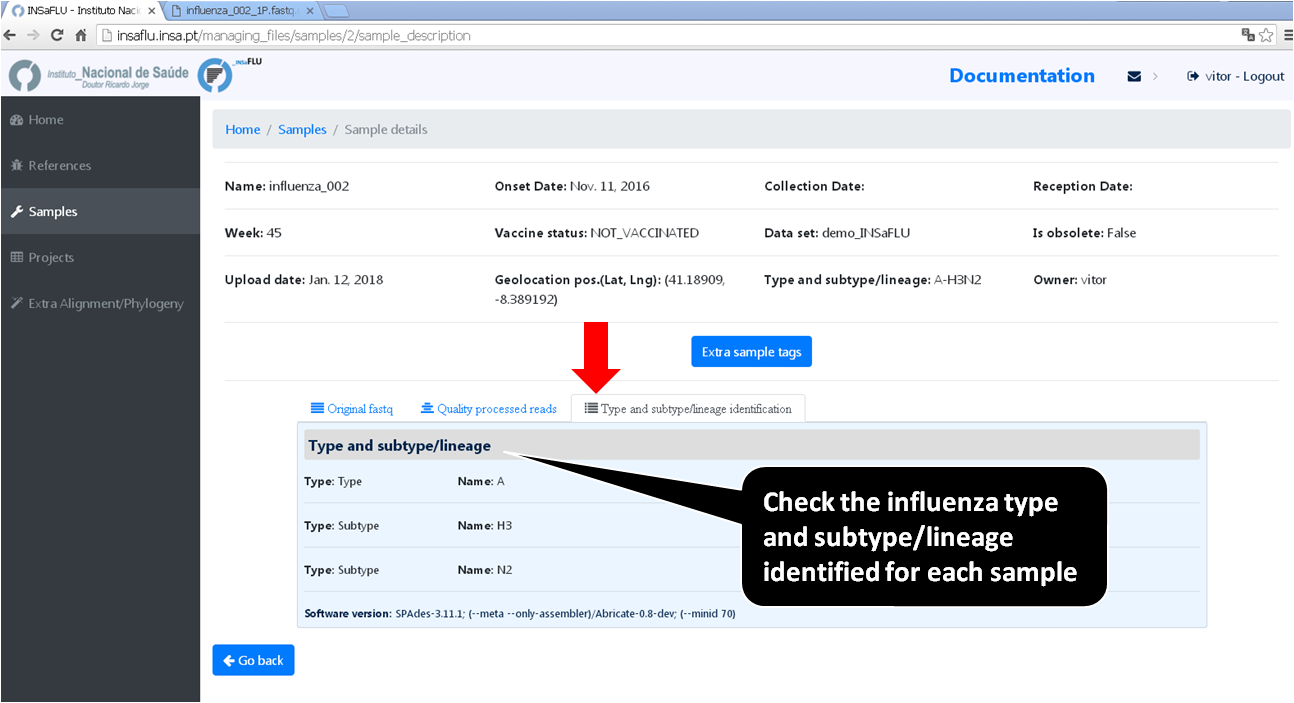
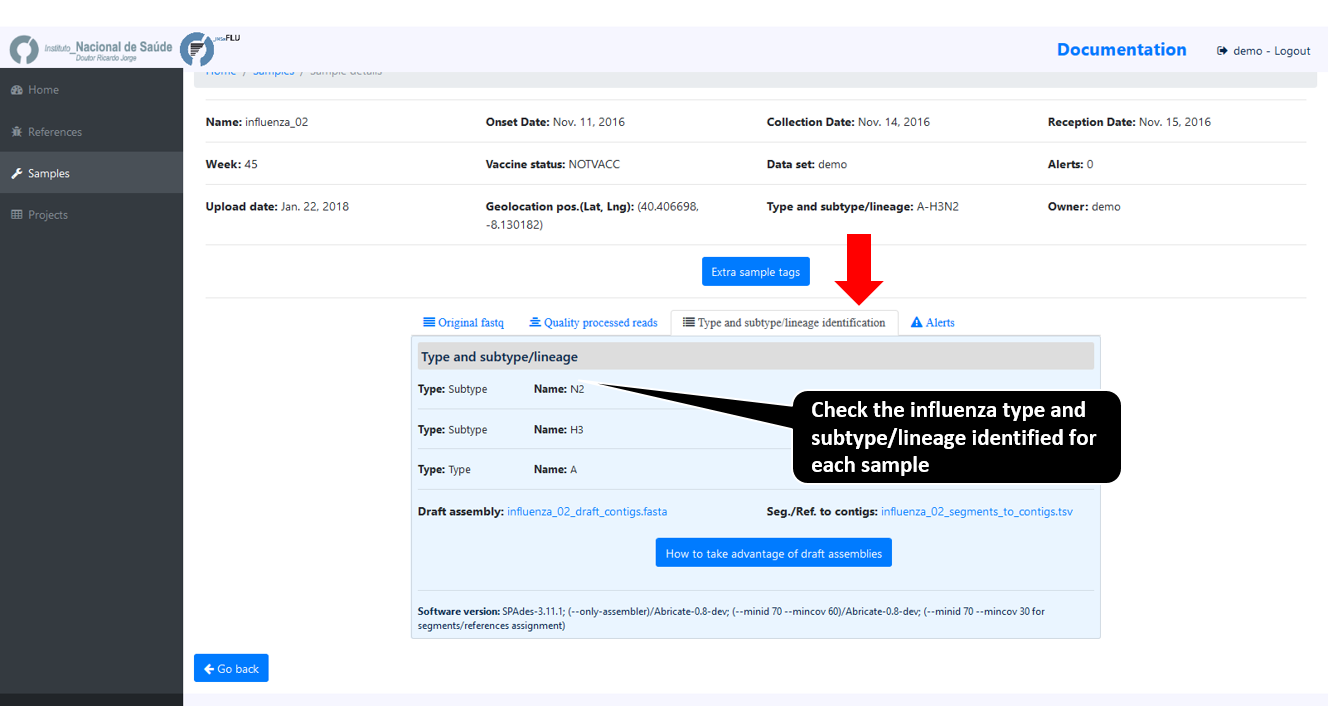
[Add] update tutorial images - typing module

diff --git a/docs/data_analysis.rst b/docs/data_analysis.rst
@@ -56,7 +56,7 @@ i) "influenza_typing", which drives the discrimination of the influenza types A 
 
 ii) "influenza_assign_segments2contigs", which allows the automatic assignment of the assembled contigs to both the corresponding viral segments and to a related reference influenza virus. 
 
-The generated outputs (i.e., draft assemblies, the identified type and subtype/lineage and a table linking contigs to segments/refernces) are automatically provided upon reads upload (i.e., no user intervention is needed). INSaFLU flags samples as "putative mixed infections" if more than one type, HA or NA subtype or lineage is detected. In addition, specific alerts are generated if an incomplete type/subtype is assigned.
+The generated outputs (i.e., draft assemblies, the identified type and subtype/lineage and a table linking contigs to segments/references) are automatically provided upon reads upload (i.e., no user intervention is needed). INSaFLU flags samples as "putative mixed infections" if more than one type, HA or NA subtype or lineage is detected. In addition, specific alerts are generated if an incomplete type/subtype is assigned.
 
 *Software version/settings*
 
@@ -79,7 +79,7 @@ The generated outputs (i.e., draft assemblies, the identified type and subtype/l
 		
 		--mincov: minimum DNA % coverage (--mincov 60)
 		
-		
+				
 		# For segments/references assignment: 
 		
 		--db influeza_assign_segments2contigs: this database includes segment sequence markers of several seasonal human influenza [including: i) post-pandemic (2009) vaccine/reference influenza A(H1N1)pdm2009, A(H3N2) and B viruses; ii) representative viruses of specific genetic groups/lineages/clades, as defined by International Health Authorities for each season)], as well as of avian influenza from several HA/NA subtypes (i.e., H1N1, H2N2, H5N1, H7N9, etc)
@@ -89,8 +89,11 @@ The generated outputs (i.e., draft assemblies, the identified type and subtype/l
 		--mincov: minimum DNA % coverage (--mincov 30)
 
 				Important note: Since the "influeza_assign_segments2contigs" database is naturally not as exhaustive as other databases (such as, NCBI, Fludb or EpiFLU/GISAID), users may need to run the draft assemblies in these databases (or associated tools, such as BLAST) for some purposes (e.g., to detect/confirm reassortments or to infer the closest reference sequence of each segment).
+
+Latest lists of genetic markers can be downloaded here: :download:`INSaFLU_current_genetic_markers_14_05_2018.xlsx <_static/INSaFLU_current_genetic_markers_14_05_2018.xlsx>`
+				
 		
-		
+
 Variant detection and consensus generation
 ------------------------------------------
 

diff --git a/docs/output_visualization.rst b/docs/output_visualization.rst
@@ -60,7 +60,14 @@ Click on ".html" files and explore each one of the FastQC "Analysis modules" - p
    - INSaFLU flags samples as "putative mixed infections" if more than one type, HA or NA subtype or lineage is detected. In addition, specific alerts are generated if an incomplete type/subtype is assigned.
 
 
-- **Typing and subtyping data**
+- Assignment of viral segments/references to draft contigs
+
+.. image:: _static/sample_Assign_segments2contigs.png
+
+.. note::
+   - INSaFLU performs automatic assignment of each assembled influenza-specific NODE (or contig) to both the corresponding viral segments and to a related reference influenza virus. 
+   
+ 	- Outputs of this module (i.e., draft assemblies, the identified type and subtype/lineage and a table linking contigs to segments/references) can be visualize or downloaded here.
 
 Explore the *Projects* menu
 ---------------------------  

diff --git a/docs/change_log.rst b/docs/change_log.rst
@@ -11,7 +11,7 @@ This tab includes a list (chronologically ordered) of notable changes in INSaFLU
 May 14, 2018 
 .............
 
-- The INSaFLU list of genetic markers "influenza_assign_segments2contigs" was upgraded (now includes 416 sequences), so analysis from now one can assign additional close references sequences to your viruses. 
+- The INSaFLU list of genetic markers "influenza_assign_segments2contigs" was upgraded (now includes 416 sequences), so, from now one, INSaFLU can assign additional close references sequences to your viruses, such as representative virus of distinct genetic sub-groups or seasonal a(H3N2) viruses or  representative A(H5N1) sequences of distinct H5 genetic clades.
 
 
 Latest database can be downloaded here: :download:`INSaFLU_current_genetic_markers_14_05_2018.xlsx <_static/INSaFLU_current_genetic_markers_14_05_2018.xlsx>`
